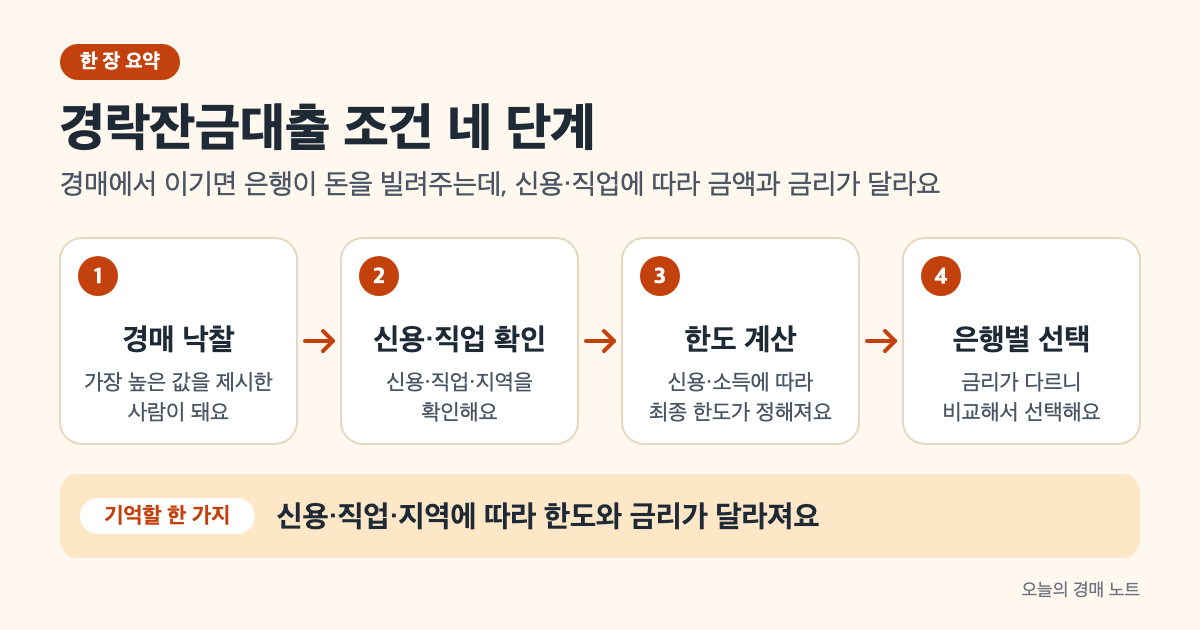
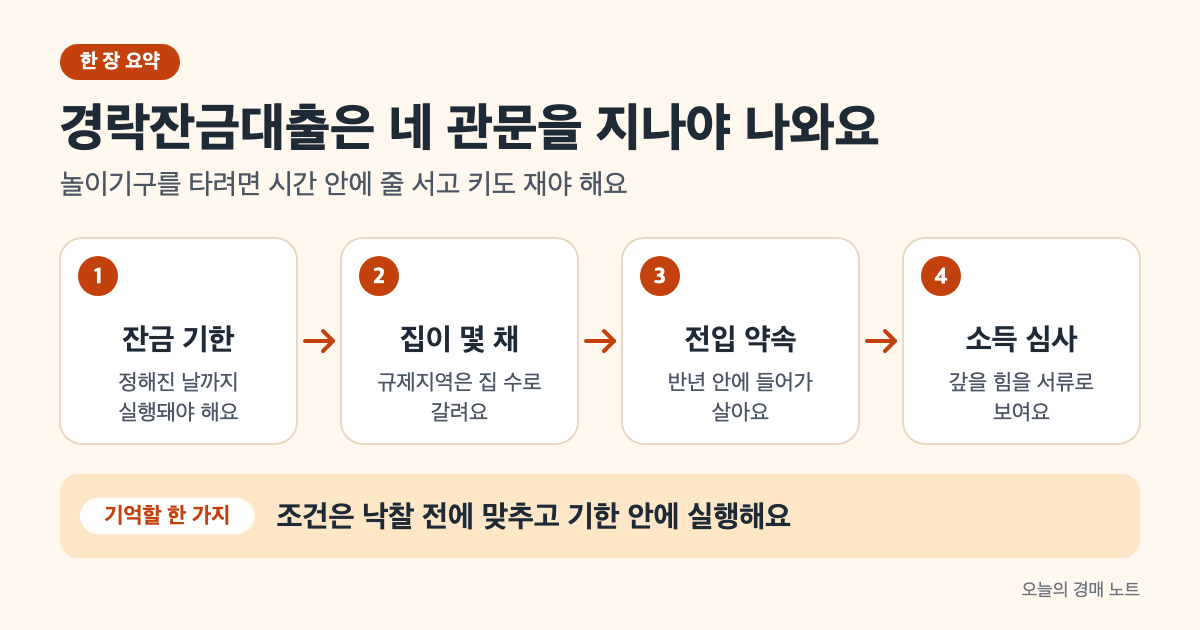
가이드 고쳐쓰기: 경락잔금대출 조건 — 법령·금융위 원문 기준으로 재작성

diff --git a/content/guide/auction-loan-requirements/index.md b/content/guide/auction-loan-requirements/index.md
@@ -1,109 +1,103 @@
 ---
-title: "경락잔금대출 조건, 신용도·직업부터"
+title: "경락잔금대출 조건, 잔금 기한부터 따진다"
 author: "rich-batch"
 date: 2026-09-18
-lastmod: 2026-09-18
+lastmod: 2026-10-11
 draft: false
 volatile: true
 categories: ["경매 대출·세금"]
-tags: ["경락잔금대출", "대출조건", "신용도", "직업별조건", "은행별차이", "한도"]
-description: "경락잔금대출은 신용도·직업·지역에 따라 조건이 크게 달라집니다. 은행별 자격요건과 한도 규제를 명확히 알아두면 낙찰 후 당황하지 않습니다."
+tags: ["경락잔금대출", "대출조건", "대금지급기한", "전입의무", "주택보유", "DSR"]
+description: "경락잔금대출을 받으려면 잔금 기한 안에, 주택 보유·전입·소득 조건을 맞춰야 합니다. 법원 경매와 공매의 잔금 기한, 수도권·규제지역 차주 조건을 법령과 금융위원회 원문으로 봅니다."
 showToc: true
 TocOpen: true
 cover:
   image: "eli5-overview.png"
-  alt: "경락잔금대출 조건을 경매 낙찰부터 은행별 선택까지 네 단계로 설명하는 한 장 요약 도식"
-  caption: "신용·직업·지역에 따라 한도와 금리가 달라지므로 미리 확인하고 준비하세요"
+  alt: "잔금 기한, 주택 보유, 전입 약속, 소득 심사 네 가지 조건을 차례로 통과해야 대출이 나온다는 흐름도"
+  caption: "대출 조건은 낙찰 전에 맞춰 두고, 잔금 기한 안에 실행까지 끝내야 합니다"
 ---
 
-경매로 낙찰받으면 법원에서 잔금을 낼 기한을 줍니다. 보증금은 이미 냈으니, 이제 나머지 큰 돈을 어디서 마련할지 결정해야 합니다. 은행에서 경락잔금대출이라는 전용 상품으로 빌릴 수 있는데, 여기서 주의할 점이 있습니다.
+경락잔금대출의 첫 번째 조건은 신용점수가 아니라 **시간**입니다. 법원 경매는 매각허가결정이 확정된 날부터 1개월 안의 날로 대금지급기한이 정해지고([민사집행규칙 제78조](https://www.law.go.kr/법령/민사집행규칙/제78조)), 그때까지 잔금을 못 내면 재매각으로 넘어가 입찰보증금을 돌려받지 못합니다([민사집행법 제138조](https://www.law.go.kr/법령/민사집행법/제138조)). 대출 심사를 그 안에 통과하고 실행까지 마쳐야 한다는 뜻이에요.
 
-같은 물건, 같은 가격이라도 신용도, 직업, 지역에 따라 받을 수 있는 한도와 금리가 크게 달라진다는 것입니다. 은행마다 기준이 다르기도 합니다. 낙찰 후 당황하지 않으려면 이 조건들을 미리 알아두는 게 필수입니다. 이 글의 수치는 2026년 9월 18일 기준 은행과 금융기관의 공시 정보로 확인했습니다.
+그다음이 차주 조건입니다. 2025년 6·27 대책 이후 수도권·규제지역에서 집을 사며 받는 주택담보대출에는 주택 보유 수, 6개월 안 전입, 소득 대비 상환 능력 조건이 붙었고([정책브리핑](https://www.korea.kr/news/policyNewsView.do?newsId=148945077)), 경매로 사는 집도 주택구입 목적 대출이라는 점은 같습니다. 이 글은 2026년 10월 11일 기준 법령과 금융위원회·정책브리핑 원문으로 확인했어요. 공식 자료가 경락잔금대출을 따로 언급하지는 않아서, 일반 주택구입 목적 주담대 규제를 그대로 받는다는 전제로 설명합니다.
 
 > **핵심 요약**
-> - 경락잔금대출은 신용도가 높을수록 우대금리를 받을 수 있습니다
-> - 무직자는 1금융권이 거의 불가능하고, 자영업자는 2금융권에서 통과할 가능성이 높습니다
-> - 같은 물건이라도 금융기관을 선택하는 것만으로 금리가 상당히 달라집니다
+> - 법원 경매는 매각허가결정 확정 후 1개월 안, 세금 체납 압류재산 공매는 매각결정 후 7일 안(최대 30일 연장)이 잔금 기한입니다([민사집행규칙 제78조](https://www.law.go.kr/법령/민사집행규칙/제78조) · [국세징수법 제84조](https://www.law.go.kr/법령/국세징수법/제84조)).
+> - 수도권·규제지역은 2주택 이상이면 구입 목적 주담대가 안 되고, 대출을 받으면 6개월 안에 전입해야 합니다([정책브리핑](https://www.korea.kr/news/policyNewsView.do?newsId=148945077)).
 
-## 신용도에 따라 금리와 한도가 달라진다
+## 조건 하나: 잔금 기한 안에 실행돼야 한다
 
-경락잔금대출은 경매에서 낙찰을 받은 사람이 잔금을 납부할 때 필요한 자금을 빌리는 전용 대출입니다. 낙찰영수증을 받으면 신청할 수 있지만, 여기서부터 금융기관의 심사가 시작됩니다.
+법원 경매의 시간표는 법에 정해져 있습니다. 매각결정기일은 매각기일부터 1주 안으로 잡히고([민사집행법 제109조](https://www.law.go.kr/법령/민사집행법/제109조)), 매각허가결정에 대한 즉시항고는 고지받은 날부터 1주 안에 해야 합니다([민사집행법 제15조](https://www.law.go.kr/법령/민사집행법/제15조)). 항고가 없어 허가결정이 확정되면 법원이 그날부터 1개월 안으로 대금지급기한을 정해 통지하죠([민사집행법 제142조](https://www.law.go.kr/법령/민사집행법/제142조) · [민사집행규칙 제78조](https://www.law.go.kr/법령/민사집행규칙/제78조)).
 
-은행에서 가장 먼저 확인하는 게 신용도입니다. 신용점수가 높을수록 금리가 내려가고 한도가 커집니다.
+| 구분 | 잔금 기한 | 못 내면 |
+|---|---|---|
+| 법원 경매 | 매각허가결정 확정일부터 1개월 안의 날로 법원이 지정 | 차순위매수신고인이 없으면 재매각, 전 매수인은 보증금 반환 요구 불가 |
+| 압류재산 공매(국세징수법) | 매각결정일부터 7일 이내, 세무서장이 필요하다고 보면 30일 범위에서 연장 | 다시 기한을 정해 촉구하고, 그래도 안 내면 매각결정 취소 |
 
-신용점수가 높으면 우대금리를 받을 수 있습니다. 우대폭은 소수점 이하 수준이지만, 대출액이 크면 월 이자가 상당히 달라집니다. 신용평가사(나이스, 코금 등)에서 무료로 본인의 신용점수를 조회할 수 있습니다.
+출처: [민사집행법 제138조·제142조](https://www.law.go.kr/법령/민사집행법/제142조) · [민사집행규칙 제78조](https://www.law.go.kr/법령/민사집행규칙/제78조) · [국세징수법 제84조·제85조·제86조](https://www.law.go.kr/법령/국세징수법/제84조) (2026년 10월 11일 기준)
 
-신용점수가 낮으면 우대를 받지 못할 뿐 아니라 금리가 올라가거나 한도가 줄어듭니다. 신용이 특히 낮으면 2금융권으로 가야 하는데, 이 경우 금리는 1금융권보다 높아집니다.
+공매는 훨씬 빠듯합니다. 세금 체납으로 압류된 재산의 공매는 매각결정을 한 날부터 7일 안이 원칙이고, 연장해도 30일 범위예요([국세징수법 제84조](https://www.law.go.kr/법령/국세징수법/제84조)). 이 블로그가 분석한 [서울 강동구 이편한세상고덕어반브릿지 공매]({{< relref "/analysis/onbid-202610100001" >}})도 압류재산 공매였는데, 2026년 10월 8일 13억 177만 7,777원에 매각됐습니다. 이런 물건은 낙찰 후에 대출을 알아보기 시작하면 심사 서류를 모으는 사이에 기한이 지나기 쉬워요.
 
-## 직업별로 조건이 크게 달라진다
+## 조건 둘: 집을 몇 채 갖고 있는가
 
-**무직자(퇴직자, 학생 등)**는 소득이 없기 때문에 대출금을 갚을 능력을 증명할 수 없습니다. 그래서 1금융권(시중은행)은 거의 대출해주지 않습니다. 2금융권도 제한적인데, 다른 소득이 있거나 배우자 소득으로 신청할 수 있을 때만 가능합니다.
+수도권·규제지역에서는 주택 수가 대출 가능 여부를 가릅니다. 6·27 대책은 2주택 이상 보유자의 추가 주택구입 목적 주담대를 금지했고, 1주택자도 기존 집을 6개월 안에 처분하는 조건이어야 무주택자와 같은 기준으로 받을 수 있게 했어요([정책브리핑, 2025.6.27](https://www.korea.kr/news/policyNewsView.do?newsId=148945077)).
 
-**급여 근로자**는 가장 심사가 수월합니다. 월급 통장 몇 장만 있으면 소득을 증명할 수 있기 때문입니다. 1금융권에서 표준 한도와 기본 금리를 받을 가능성이 가장 높습니다.
+| 차주 | 수도권·규제지역 주택구입 목적 주담대 |
+|---|---|
+| 무주택자 | 가능. 규제지역 LTV 40% |
+| 생애최초 구입자 | 가능. 수도권·규제지역 LTV 70% |
+| 기존 집을 6개월 안에 파는 1주택자 | 무주택자와 같은 기준 |
+| 기존 집을 팔지 않는 1주택자, 2주택 이상 | 불가 |
 
-**자영업자나 프리랜서**는 소득 증명이 복잡합니다. 1금융권에서는 보수적으로 심사해서 한도를 줄이거나 금리를 올리는 경우가 많습니다. 하지만 2금융권은 다릅니다. 2금융권에서는 심사 기준이 더 느슷해서, 자영업자나 프리랜서라면 오히려 2금융권에서 더 나은 조건을 받을 수 있습니다.
+출처: [정책브리핑, 2025.6.27](https://www.korea.kr/news/policyNewsView.do?newsId=148945077) · [금융위원회, 2025.10.15](https://www.fsc.go.kr/po010101/85432) · [정책브리핑, 2026.8.18](https://www.korea.kr/briefing/actuallyView.do?newsId=148970179) (2026년 10월 11일 기준)
 
-**다주택자**는 정책적으로 제약이 많습니다. 규제 지역에서 1금융권 경락잔금대출은 거의 불가능합니다. 2금융권도 대출한도가 크게 축소됩니다. 규제 지역이 아니라도 다주택자는 일반 주택 구매자보다 불리한 조건을 받게 됩니다.
+서울 전역과 경기 12곳은 2025년 10월 16일부터 규제지역이라 위 표가 그대로 적용됩니다([정책브리핑, 2025.10.15](https://www.korea.kr/news/policyNewsView.do?newsId=148950959)). 비율이 금액으로 어떻게 바뀌는지, 시가별 금액 상한까지 겹치면 얼마가 되는지는 [경락잔금대출 한도는 80%가 아닙니다]({{< relref "/guide/auction-loan-limit" >}})에서 계산했고, 생애최초 판정 기준은 [무주택자 경락잔금대출, 생애최초라면 얼마나 다를까]({{< relref "/guide/no-home-auction-loan" >}})에서 다룹니다.
 
-## 한도는 여러 기준으로 정해진다
+## 조건 셋: 6개월 안에 들어가 살아야 한다
 
-대출 한도는 감정가와 낙찰가를 바탕으로 계산됩니다. 은행에서는 감정가와 낙찰가의 일정 비율을 대출 한도의 기준으로 봅니다. 더 낮은 금액이 최대 한도가 됩니다.
+수도권·규제지역에서 집을 사며 주담대를 받으면 6개월 안에 전입해야 합니다. 생애최초 구입자도 같은 의무가 붙어요([정책브리핑, 2025.6.27](https://www.korea.kr/news/policyNewsView.do?newsId=148945077)).
 
-다만 이것이 최종 금액은 아닙니다. 최종 한도는 DSR(빚을 갚을 능력), 신용도, 지역 규제를 반영해 결정됩니다. 소득이 적거나 다른 빚이 많으면 기본 한도보다 적게 빌리게 됩니다.
+경매로 산 집에서 이 조건이 까다로운 이유는 명도입니다. 잔금을 내 소유권을 얻어도([민사집행법 제135조](https://www.law.go.kr/법령/민사집행법/제135조)) 기존 점유자가 나가야 들어가 살 수 있거든요. 대항력 있는 임차인이 있거나 점유자가 버티는 물건이라면, 6개월 안에 전입할 수 있는지가 대출 조건과 직접 이어집니다. 그래서 저는 수도권·규제지역 물건이라면 권리분석에서 점유 관계를 볼 때 "언제 들어가 살 수 있나"를 대출 조건으로 함께 따져야 한다고 봅니다.
 
-**지역과 물건 종류에 따라 조건이 달라집니다.** 수도권 규제 지역은 한도가 낮고, 비규제 지역은 높습니다. 아파트는 대출 조건이 유리하지만, 빌라나 토지는 조건이 훨씬 까다롭습니다.
+## 조건 넷: 소득이 상환 능력을 증명해야 한다
 
-## 은행별 차이, 금리와 한도
+소득은 DSR로 심사됩니다. 1년 동안 갚을 모든 대출의 원리금이 연소득의 일정 비율을 넘지 않아야 하고, 그 한도는 은행 40%, 비은행 50%예요([금융위원회](https://fsc.go.kr/no040101?cnId=2035)). 소득을 증빙하기 어려우면 그만큼 빌릴 수 있는 금액이 작아지니, 직업보다 "서류로 보여 줄 수 있는 소득이 얼마인가"가 핵심입니다.
 
-같은 조건이라도 금융기관에 따라 금리와 한도가 다릅니다.
+부족한 잔금을 신용대출로 메우려는 계획도 막혀 있습니다. 6·27 대책은 신용대출 한도를 차주별 연소득 이내로 제한했어요([정책브리핑, 2025.6.27](https://www.korea.kr/news/policyNewsView.do?newsId=148945077)). 신용대출도 DSR 계산에 들어가니, 신용대출을 쓰면 주담대 한도가 그만큼 줄어든다는 점도 같이 봐야 합니다.
 
-| 구분 | 금리 수준 | 한도 | 특징 |
-|------|-------------|------|------|
-| **1금융권(시중은행)** | 낮음 | 보수적 | 심사 엄격, 신용 높아야 함, 우대금리 많음 |
-| **2금융권(저축은행 등)** | 중간~높음 | 1금융권보다 큼 | 승인 빠름, 신용 낮아도 가능, 자영업자 유리 |
-| **캐피탈** | 높음 | 가장 큼 | 한도는 크지만 금리 부담, 마지막 수단 |
-
-**1금융권(시중은행)**은 금리가 가장 낮지만 심사가 엄격합니다. 신용도와 소득을 까다롭게 봅니다. 다만 신용이 좋으면 우대금리를 받을 수 있어 실제 금리는 더 내려갑니다.
-
-**2금융권(저축은행)**은 1금융권보다 기준이 느슷합니다. 신용도가 낮거나 소득 증명이 약해도 승인해주는 경우가 많습니다. 특히 자영업자나 프리랜서에게 유리합니다. 한도도 1금융권보다 크지만, 금리는 1금융권보다 높아질 수 있습니다.
-
-**캐피탈**은 한도를 가장 크게 주지만 금리 부담이 가장 큽니다. 1금융권과 2금융권에서 탈락했을 때의 마지막 선택지입니다.
-
-**은행별 차이가 명확하니, 낙찰 후 바로 여러 금융기관에 상담을 신청해 한도와 금리를 비교하는 것이 필수입니다.** 금리 차이가 상당하므로, 같은 금액을 빌려도 이자 부담이 크게 달라집니다.
-
-## 신청 전에 꼭 확인할 것
-
-경락잔금대출을 신청하기 전에 이것들을 먼저 확인하면 낙찰 후 당황하지 않습니다.
-
-1. **신용점수 확인**: 신용평가사(나이스, 코금 등)에서 무료로 조회. 신용도가 높을수록 유리합니다.
-2. **소득 증명 준비**: 급여면 통장, 자영업이면 사업자등록증·소득세 신고서. 무직이라면 배우자 소득이나 다른 자산 활용을 검토하세요.
-3. **기존 대출 파악**: 주택담보대출, 신용대출 등 다른 빚이 얼마나 있는지 확인. 빚이 많으면 경락잔금대출 한도가 줄어듭니다.
-4. **낙찰 지역 확인**: 규제 지역이면 대출 조건이 까다롭습니다. 1금융권 가능 여부를 미리 판단하세요.
-5. **물건 종류 확인**: 아파트는 대출이 수월하지만, 빌라·상가·토지라면 조건이 훨씬 까다롭습니다.
+신용점수는 금리 쪽에 더 크게 작용합니다. 은행연합회는 은행별 주담대 금리를 신용점수 구간별로 나눠 공시하고, 가산금리 가운데 위험프리미엄이 신용점수에 따라 정해진다고 설명해요([전국은행연합회 소비자포털](https://portal.kfb.or.kr/compare/loan_household_new.php)). 금리를 비교하는 방법은 [경락잔금대출 금리 비교로 이자 줄이는 법]({{< relref "/guide/auction-loan-interest-rate" >}})에 정리했습니다.
 
 ## 자주 묻는 질문
 
-### Q. 무직자도 경락잔금대출을 받을 수 있을까요?
+### Q. 소득이 없으면 경락잔금대출을 못 받나요?
 
-1금융권은 거의 불가능합니다. 소득이 없으면 대출금을 갚을 능력이 없다고 봅니다. 다만 배우자가 안정적인 소득이 있다면 배우자 명의로 신청하거나 배우자를 공동 차주로 추가할 수 있습니다. 2금융권에서는 자산이 충분하거나 보증인이 있으면 심사해주기도 합니다.
+DSR은 연소득 대비 원리금으로 계산하니([금융위원회](https://fsc.go.kr/no040101?cnId=2035)) 증빙할 소득이 없으면 한도가 거의 나오지 않습니다. 소득이 없는 사람이 받을 수 있는 예외 경로는 이번에 확인한 공식 자료에 나오지 않아요. 입찰 전에 금융회사에 본인 소득 자료로 사전 상담을 받아 보는 게 가장 확실합니다.
 
-### Q. 신용도가 낮으면 대출을 받을 수 없을까요?
+### Q. 대출이 잔금 기한 안에 안 나오면 어떻게 되나요?
 
-2금융권이라면 충분히 가능합니다. 1금융권도 시도해보는 가치가 있지만, 금리가 올라가거나 한도가 줄어들 수 있습니다. 낙찰 후 여러 금융기관에 상담을 신청해서 결과를 비교하는 것이 현명합니다.
+법원 경매는 기한까지 못 내고 차순위매수신고인도 없으면 재매각으로 가고, 전 매수인은 그 재매각에 다시 입찰할 수 없으며 보증금도 돌려받지 못합니다([민사집행법 제138조](https://www.law.go.kr/법령/민사집행법/제138조)). 재매각기일 3일 전까지 대금과 지연이자, 절차비용을 내면 재매각이 취소되지만, 그 돈을 마련할 수 있는 상황이라면 애초에 기한 안에 냈겠죠.
 
-### Q. 낙찰가가 5억 원인데, 최대 얼마까지 빌릴 수 있을까요?
+### Q. 1주택자인데 경매로 사고 기존 집은 나중에 팔아도 되나요?
 
-은행에 상담할 때 감정가를 바탕으로 한도 계산을 해줍니다. 최종 금액은 감정가, 신용도, 지역 규제, 기존 빚 규모에 따라 달라집니다. 구체적 한도는 담당 은행에 문의하세요.
+수도권·규제지역이라면 기존 집을 6개월 안에 처분하는 조건으로만 구입 목적 주담대를 받을 수 있습니다([정책브리핑, 2025.6.27](https://www.korea.kr/news/policyNewsView.do?newsId=148945077)). 처분하지 않는 1주택자는 이 지역에서 구입 목적 주담대가 막혀 있어요.
 
-### Q. 1금융권과 2금융권, 어디를 먼저 신청할까요?
+### Q. 빌라나 상가도 같은 조건인가요?
 
-금리가 낮은 1금융권을 먼저 시도하되, 탈락할 경우를 대비해 2금융권 상담도 병행하세요. 낙찰 후 시간이 제한적이니, 여러 금융기관에 동시에 상담을 신청하는 것이 효율적입니다.
-
-### Q. 금리 우대를 받으려면 어떤 조건을 충족해야 할까요?
-
-주로 신용도, 소득 안정성, 기존 거래 실적을 봅니다. 신용도가 높을수록, 소득이 안정적일수록 우대받을 가능성이 높습니다. 급여 근로자는 우대받을 가능성이 높고, 자영업자는 기존 거래 기간이 길면 유리합니다.
+이 글의 주택 보유·전입·금액 조건은 주택구입 목적 주담대에 대한 규제입니다. 상가·토지 같은 비주택 담보대출의 기준은 이번에 확인한 공식 자료에 나오지 않아 금융회사에 따로 확인해야 해요. 빌라는 주택이라 위 규제를 받습니다.
 
 ## 참고 자료
 
-이 글은 경락잔금대출의 일반적인 조건을 정보 제공 목적으로 작성했습니다. 경락잔금대출의 구체적 조건(금리, 한도, 우대 기준)은 금융기관마다 다르므로, 낙찰 후 실제 신청 시에는 여러 금융기관에 직접 문의하세요.
-
+- [민사집행법 제15조 · 즉시항고](https://www.law.go.kr/법령/민사집행법/제15조) — 재판 고지일부터 1주 불변기간 (2026-10-11 확인)
+- [민사집행법 제109조 · 매각결정기일](https://www.law.go.kr/법령/민사집행법/제109조) — 매각기일부터 1주 이내 (2026-10-11 확인)
+- [민사집행법 제135조 · 소유권의 취득시기](https://www.law.go.kr/법령/민사집행법/제135조) — 매각대금을 다 낸 때 권리 취득 (2026-10-11 확인)
+- [민사집행법 제138조 · 재매각](https://www.law.go.kr/법령/민사집행법/제138조) — 대금 미지급 시 재매각, 보증 반환 요구 불가 (2026-10-11 확인)
+- [민사집행법 제142조 · 대금의 지급](https://www.law.go.kr/법령/민사집행법/제142조) — 매각허가결정 확정 후 대금지급기한 지정 (2026-10-11 확인)
+- [민사집행규칙 제78조 · 대금지급기한](https://www.law.go.kr/법령/민사집행규칙/제78조) — 확정일부터 1월 안의 날 (2026-10-11 확인)
+- [국세징수법 제84조 · 매각결정 및 대금납부기한](https://www.law.go.kr/법령/국세징수법/제84조) — 매각결정일부터 7일 이내, 30일 범위 연장 (2026-10-11 확인)
+- [국세징수법 제85조 · 매수대금 납부의 촉구](https://www.law.go.kr/법령/국세징수법/제85조) — 기한 재지정 후 촉구 (2026-10-11 확인)
+- [국세징수법 제86조 · 매각결정의 취소](https://www.law.go.kr/법령/국세징수법/제86조) — 촉구 후에도 미납 시 취소 (2026-10-11 확인)
+- [정책브리핑 · 가계부채 관리 강화방안(2025.6.27)](https://www.korea.kr/news/policyNewsView.do?newsId=148945077) — 2주택 이상 구입 목적 주담대 금지, 1주택자 6개월 처분 조건, 6개월 전입 의무, 신용대출 연소득 이내 (2026-10-11 확인)
+- [정책브리핑 · 주택시장 안정화 대책(2025.10.15)](https://www.korea.kr/news/policyNewsView.do?newsId=148950959) — 서울 전역·경기 12곳 규제지역 지정 (2026-10-11 확인)
+- [금융위원회 · 주택시장 안정화 대책 보도자료(2025.10.15)](https://www.fsc.go.kr/po010101/85432) — 규제지역 LTV 40% (2026-10-11 확인)
+- [정책브리핑 · 생애최초 LTV 사실확인(2026.8.18)](https://www.korea.kr/briefing/actuallyView.do?newsId=148970179) — 생애최초 수도권·규제지역 70% 유지 (2026-10-11 확인)
+- [금융위원회 · 스트레스 DSR 카드뉴스](https://fsc.go.kr/no040101?cnId=2035) — DSR 한도 은행 40%·비은행 50% (2026-10-11 확인)
+- [전국은행연합회 소비자포털 · 가계대출금리 비교공시](https://portal.kfb.or.kr/compare/loan_household_new.php) — 신용점수 구간별 금리, 가산금리 구성 (2026-10-11 확인)
